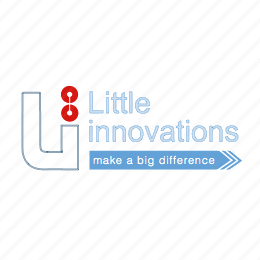
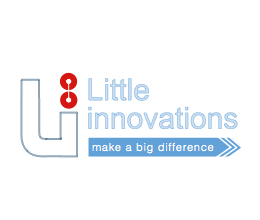
background

Changed region(s): [[0.3385, 0.3545, 0.9538, 0.7364], [0.0615, 0.3273, 0.3077, 0.7364]]

diff --git a/style.css b/style.css
@@ -35,6 +35,10 @@ body {
 	vertical-align: middle;
 }
 
+#showcase #logo, #showcase #more {
+	background-image: url("./images/back.png");
+}
+
 .panel img {
 	max-width: 90%;
 	max-height: 90%;
